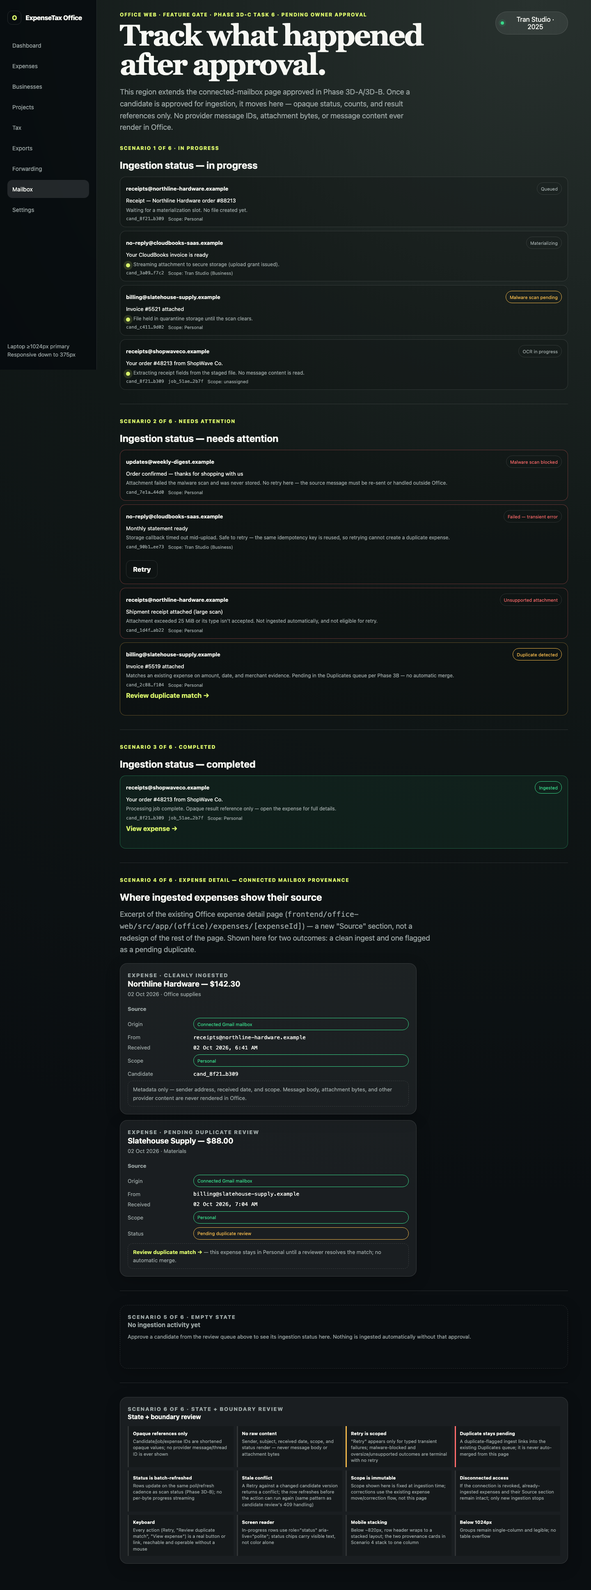
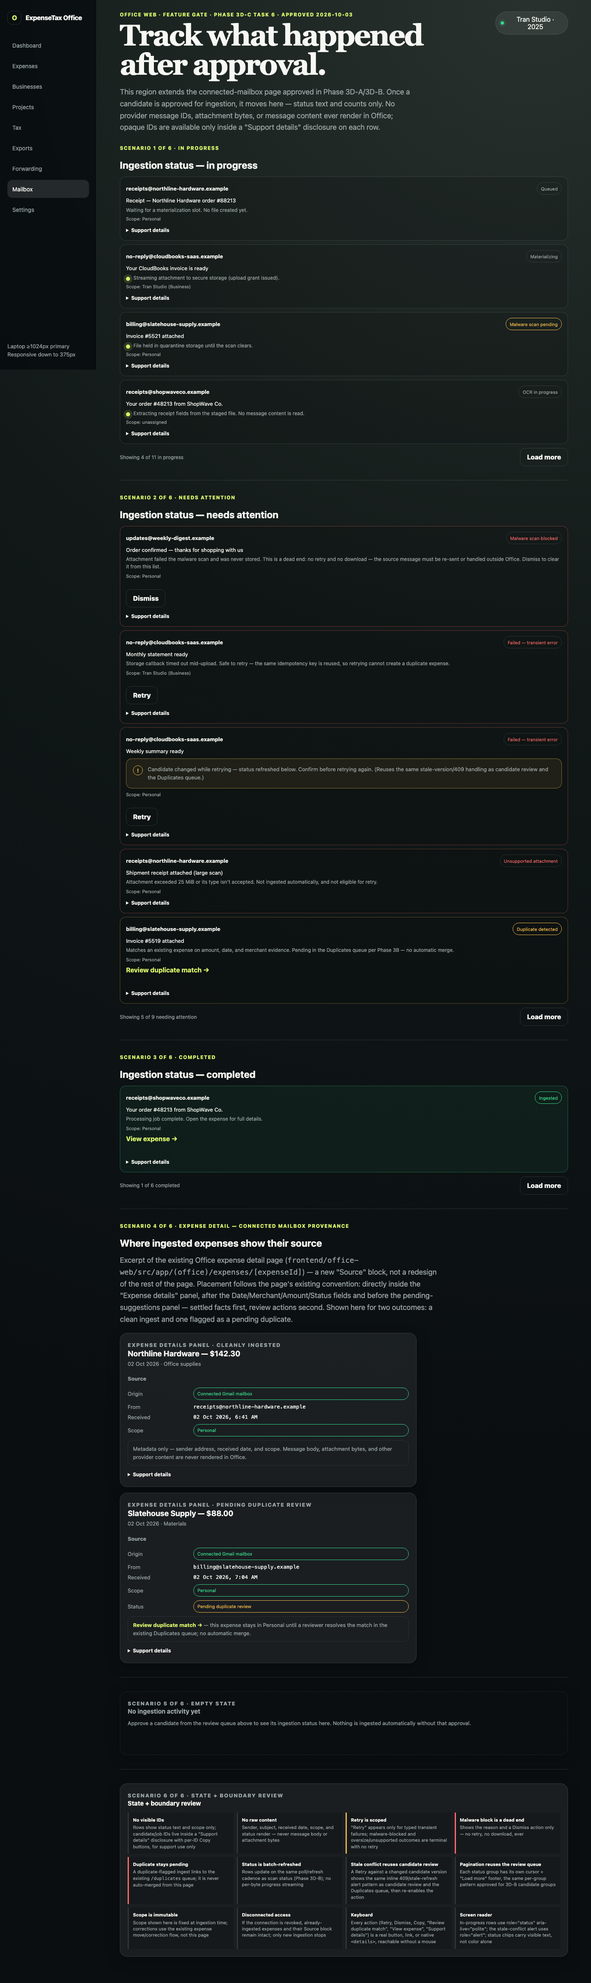
docs(mockups): approve office mailbox ingestion status gate (Phase 3D-C Task 6)
(cherry picked from commit dd946ffecdc4c11451270af4c277eb1730628504)

diff --git a/expense-tax-management/plans/mockups/office-mailbox-ingestion/ingestion.html b/expense-tax-management/plans/mockups/office-mailbox-ingestion/ingestion.html
@@ -3,7 +3,7 @@
 <head>
 <meta charset="utf-8">
 <meta name="viewport" content="width=device-width,initial-scale=1">
-<title>ExpenseTax Office — Mailbox ingestion status (Phase 3D-C feature gate, pending approval)</title>
+<title>ExpenseTax Office — Mailbox ingestion status (Phase 3D-C feature gate, approved)</title>
 <link rel="icon" href="../favicon.svg">
 <link rel="stylesheet" href="../rebaseline/shared/tokens.css">
 <link rel="stylesheet" href="../office-mailbox/mailbox.css">
@@ -31,9 +31,9 @@
   <main id="main">
     <div class="topline">
       <div>
-        <p class="eyebrow">Office Web · feature gate · Phase 3D-C Task 6 · PENDING OWNER APPROVAL</p>
+        <p class="eyebrow">Office Web · feature gate · Phase 3D-C Task 6 · APPROVED 2026-10-03</p>
         <h1>Track what happened after approval.</h1>
-        <p class="lede">This region extends the connected-mailbox page approved in Phase 3D-A/3D-B. Once a candidate is approved for ingestion, it moves here — opaque status, counts, and result references only. No provider message IDs, attachment bytes, or message content ever render in Office.</p>
+        <p class="lede">This region extends the connected-mailbox page approved in Phase 3D-A/3D-B. Once a candidate is approved for ingestion, it moves here — status text and counts only. No provider message IDs, attachment bytes, or message content ever render in Office; opaque IDs are available only inside a "Support details" disclosure on each row.</p>
       </div>
       <button class="profile"><span class="dot"></span> Tran Studio · 2025</button>
     </div>
@@ -47,30 +47,44 @@
           <div class="row-top"><span id="i1-sender" class="sender">receipts@northline-hardware.example</span><span class="chip">Queued</span></div>
           <p class="subject">Receipt — Northline Hardware order #88213</p>
           <div class="status-line"><span>Waiting for a materialization slot. No file created yet.</span></div>
-          <div class="ref-line"><span class="value">cand_8f21…b309</span><span>Scope: Personal</span></div>
+          <div class="ref-line"><span>Scope: Personal</span></div>
+          <details class="support-details"><summary>Support details</summary>
+            <div class="id-row"><span class="value">Candidate ID: cand_8f21…b309</span><button class="button secondary" type="button" aria-label="Copy candidate ID">Copy</button></div>
+          </details>
         </article>
 
         <article class="ingestion-row" aria-labelledby="i2-sender" role="status" aria-live="polite">
           <div class="row-top"><span id="i2-sender" class="sender">no-reply@cloudbooks-saas.example</span><span class="chip">Materializing</span></div>
           <p class="subject">Your CloudBooks invoice is ready</p>
           <div class="status-line"><span class="spinner-dot" aria-hidden="true"></span><span>Streaming attachment to secure storage (upload grant issued).</span></div>
-          <div class="ref-line"><span class="value">cand_3a09…f7c2</span><span>Scope: Tran Studio (Business)</span></div>
+          <div class="ref-line"><span>Scope: Tran Studio (Business)</span></div>
+          <details class="support-details"><summary>Support details</summary>
+            <div class="id-row"><span class="value">Candidate ID: cand_3a09…f7c2</span><button class="button secondary" type="button" aria-label="Copy candidate ID">Copy</button></div>
+          </details>
         </article>
 
         <article class="ingestion-row" aria-labelledby="i3-sender" role="status" aria-live="polite">
           <div class="row-top"><span id="i3-sender" class="sender">billing@slatehouse-supply.example</span><span class="chip warn">Malware scan pending</span></div>
           <p class="subject">Invoice #5521 attached</p>
           <div class="status-line"><span class="spinner-dot" aria-hidden="true"></span><span>File held in quarantine storage until the scan clears.</span></div>
-          <div class="ref-line"><span class="value">cand_c411…9d02</span><span>Scope: Personal</span></div>
+          <div class="ref-line"><span>Scope: Personal</span></div>
+          <details class="support-details"><summary>Support details</summary>
+            <div class="id-row"><span class="value">Candidate ID: cand_c411…9d02</span><button class="button secondary" type="button" aria-label="Copy candidate ID">Copy</button></div>
+          </details>
         </article>
 
         <article class="ingestion-row" aria-labelledby="i4-sender" role="status" aria-live="polite">
           <div class="row-top"><span id="i4-sender" class="sender">receipts@shopwaveco.example</span><span class="chip">OCR in progress</span></div>
           <p class="subject">Your order #48213 from ShopWave Co.</p>
           <div class="status-line"><span class="spinner-dot" aria-hidden="true"></span><span>Extracting receipt fields from the staged file. No message content is read.</span></div>
-          <div class="ref-line"><span class="value">cand_8f21…b309</span><span class="value">job_51ae…2b7f</span><span>Scope: unassigned</span></div>
+          <div class="ref-line"><span>Scope: unassigned</span></div>
+          <details class="support-details"><summary>Support details</summary>
+            <div class="id-row"><span class="value">Candidate ID: cand_8f21…b309</span><button class="button secondary" type="button" aria-label="Copy candidate ID">Copy</button></div>
+            <div class="id-row"><span class="value">Job ID: job_51ae…2b7f</span><button class="button secondary" type="button" aria-label="Copy job ID">Copy</button></div>
+          </details>
         </article>
 
+        <div class="group-footer"><span class="lede" style="margin:0;font-size:12px">Showing 4 of 11 in progress</span><button class="button secondary" type="button">Load more</button></div>
       </div>
     </section>
 
@@ -84,33 +98,61 @@
         <article class="ingestion-row terminal-bad" aria-labelledby="i5-sender">
           <div class="row-top"><span id="i5-sender" class="sender">updates@weekly-digest.example</span><span class="chip bad">Malware scan blocked</span></div>
           <p class="subject">Order confirmed — thanks for shopping with us</p>
-          <p class="note">Attachment failed the malware scan and was never stored. No retry here — the source message must be re-sent or handled outside Office.</p>
-          <div class="ref-line"><span class="value">cand_7e1a…44d0</span><span>Scope: Personal</span></div>
+          <p class="note">Attachment failed the malware scan and was never stored. This is a dead end: no retry and no download — the source message must be re-sent or handled outside Office. Dismiss to clear it from this list.</p>
+          <div class="ref-line"><span>Scope: Personal</span></div>
+          <div class="action-row"><button class="button secondary" type="button">Dismiss</button></div>
+          <details class="support-details"><summary>Support details</summary>
+            <div class="id-row"><span class="value">Candidate ID: cand_7e1a…44d0</span><button class="button secondary" type="button" aria-label="Copy candidate ID">Copy</button></div>
+          </details>
         </article>
 
         <article class="ingestion-row terminal-bad" aria-labelledby="i6-sender">
           <div class="row-top"><span id="i6-sender" class="sender">no-reply@cloudbooks-saas.example</span><span class="chip bad">Failed — transient error</span></div>
           <p class="subject">Monthly statement ready</p>
           <p class="note">Storage callback timed out mid-upload. Safe to retry — the same idempotency key is reused, so retrying cannot create a duplicate expense.</p>
-          <div class="ref-line"><span class="value">cand_90b1…ee73</span><span>Scope: Tran Studio (Business)</span></div>
+          <div class="ref-line"><span>Scope: Tran Studio (Business)</span></div>
           <div class="action-row"><button class="button secondary" type="button">Retry</button></div>
+          <details class="support-details"><summary>Support details</summary>
+            <div class="id-row"><span class="value">Candidate ID: cand_90b1…ee73</span><button class="button secondary" type="button" aria-label="Copy candidate ID">Copy</button></div>
+          </details>
+        </article>
+
+        <article class="ingestion-row terminal-bad" aria-labelledby="i6b-sender">
+          <div class="row-top"><span id="i6b-sender" class="sender">no-reply@cloudbooks-saas.example</span><span class="chip bad">Failed — transient error</span></div>
+          <p class="subject">Weekly summary ready</p>
+          <div class="banner warn" role="alert" style="margin:10px 0 0">
+            <span class="icon" aria-hidden="true">!</span>
+            <div><p style="margin:0">Candidate changed while retrying — status refreshed below. Confirm before retrying again. (Reuses the same stale-version/409 handling as candidate review and the Duplicates queue.)</p></div>
+          </div>
+          <div class="ref-line" style="margin-top:8px"><span>Scope: Personal</span></div>
+          <div class="action-row"><button class="button secondary" type="button">Retry</button></div>
+          <details class="support-details"><summary>Support details</summary>
+            <div class="id-row"><span class="value">Candidate ID: cand_6f02…a815</span><button class="button secondary" type="button" aria-label="Copy candidate ID">Copy</button></div>
+          </details>
         </article>
 
         <article class="ingestion-row terminal-bad" aria-labelledby="i7-sender">
           <div class="row-top"><span id="i7-sender" class="sender">receipts@northline-hardware.example</span><span class="chip bad">Unsupported attachment</span></div>
           <p class="subject">Shipment receipt attached (large scan)</p>
           <p class="note">Attachment exceeded 25 MiB or its type isn't accepted. Not ingested automatically, and not eligible for retry.</p>
-          <div class="ref-line"><span class="value">cand_1d4f…ab22</span><span>Scope: Personal</span></div>
+          <div class="ref-line"><span>Scope: Personal</span></div>
+          <details class="support-details"><summary>Support details</summary>
+            <div class="id-row"><span class="value">Candidate ID: cand_1d4f…ab22</span><button class="button secondary" type="button" aria-label="Copy candidate ID">Copy</button></div>
+          </details>
         </article>
 
         <article class="ingestion-row terminal-warn" aria-labelledby="i8-sender">
           <div class="row-top"><span id="i8-sender" class="sender">billing@slatehouse-supply.example</span><span class="chip warn">Duplicate detected</span></div>
           <p class="subject">Invoice #5519 attached</p>
           <p class="note">Matches an existing expense on amount, date, and merchant evidence. Pending in the Duplicates queue per Phase 3B — no automatic merge.</p>
-          <div class="ref-line"><span class="value">cand_2c88…f104</span><span>Scope: Personal</span></div>
-          <div class="action-row"><a class="link-action" href="#">Review duplicate match →</a></div>
+          <div class="ref-line"><span>Scope: Personal</span></div>
+          <div class="action-row"><a class="link-action" href="/duplicates">Review duplicate match →</a></div>
+          <details class="support-details"><summary>Support details</summary>
+            <div class="id-row"><span class="value">Candidate ID: cand_2c88…f104</span><button class="button secondary" type="button" aria-label="Copy candidate ID">Copy</button></div>
+          </details>
         </article>
 
+        <div class="group-footer"><span class="lede" style="margin:0;font-size:12px">Showing 5 of 9 needing attention</span><button class="button secondary" type="button">Load more</button></div>
       </div>
     </section>
 
@@ -124,11 +166,16 @@
         <article class="ingestion-row terminal-ok" aria-labelledby="i9-sender">
           <div class="row-top"><span id="i9-sender" class="sender">receipts@shopwaveco.example</span><span class="chip ok">Ingested</span></div>
           <p class="subject">Your order #48213 from ShopWave Co.</p>
-          <p class="note">Processing job complete. Opaque result reference only — open the expense for full details.</p>
-          <div class="ref-line"><span class="value">cand_8f21…b309</span><span class="value">job_51ae…2b7f</span><span>Scope: Personal</span></div>
+          <p class="note">Processing job complete. Open the expense for full details.</p>
+          <div class="ref-line"><span>Scope: Personal</span></div>
           <div class="action-row"><a class="link-action" href="#">View expense →</a></div>
+          <details class="support-details"><summary>Support details</summary>
+            <div class="id-row"><span class="value">Candidate ID: cand_8f21…b309</span><button class="button secondary" type="button" aria-label="Copy candidate ID">Copy</button></div>
+            <div class="id-row"><span class="value">Job ID: job_51ae…2b7f</span><button class="button secondary" type="button" aria-label="Copy job ID">Copy</button></div>
+          </details>
         </article>
 
+        <div class="group-footer"><span class="lede" style="margin:0;font-size:12px">Showing 1 of 6 completed</span><button class="button secondary" type="button">Load more</button></div>
       </div>
     </section>
 
@@ -137,10 +184,10 @@
     <section aria-labelledby="s4-heading">
       <p class="eyebrow scenario-label">Scenario 4 of 6 · Expense detail — connected mailbox provenance</p>
       <h2 id="s4-heading" style="margin-bottom:14px">Where ingested expenses show their source</h2>
-      <p class="lede" style="margin:0 0 18px;max-width:760px">Excerpt of the existing Office expense detail page (<code>frontend/office-web/src/app/(office)/expenses/[expenseId]</code>) — a new "Source" section, not a redesign of the rest of the page. Shown here for two outcomes: a clean ingest and one flagged as a pending duplicate.</p>
+      <p class="lede" style="margin:0 0 18px;max-width:780px">Excerpt of the existing Office expense detail page (<code>frontend/office-web/src/app/(office)/expenses/[expenseId]</code>) — a new "Source" block, not a redesign of the rest of the page. Placement follows the page's existing convention: directly inside the "Expense details" panel, after the Date/Merchant/Amount/Status fields and before the pending-suggestions panel — settled facts first, review actions second. Shown here for two outcomes: a clean ingest and one flagged as a pending duplicate.</p>
       <div class="grid">
         <article class="card wide provenance-card">
-          <p class="eyebrow scenario-label">Expense · cleanly ingested</p>
+          <p class="eyebrow scenario-label">Expense details panel · cleanly ingested</p>
           <h3 style="margin:0 0 4px">Northline Hardware — $142.30</h3>
           <p style="margin:0;color:var(--muted);font-size:13px">02 Oct 2026 · Office supplies</p>
           <h4 style="margin:18px 0 4px;font-size:13px;color:var(--muted)">Source</h4>
@@ -148,11 +195,13 @@
           <div class="field-row"><label>From</label><span class="value">receipts@northline-hardware.example</span></div>
           <div class="field-row"><label>Received</label><span class="value">02 Oct 2026, 6:41 AM</span></div>
           <div class="field-row"><label>Scope</label><span class="chip ok">Personal</span></div>
-          <div class="field-row"><label>Candidate</label><span class="value">cand_8f21…b309</span></div>
           <p class="provenance-note">Metadata only — sender address, received date, and scope. Message body, attachment bytes, and other provider content are never rendered in Office.</p>
+          <details class="support-details"><summary>Support details</summary>
+            <div class="id-row"><span class="value">Candidate ID: cand_8f21…b309</span><button class="button secondary" type="button" aria-label="Copy candidate ID">Copy</button></div>
+          </details>
         </article>
         <article class="card wide provenance-card">
-          <p class="eyebrow scenario-label">Expense · pending duplicate review</p>
+          <p class="eyebrow scenario-label">Expense details panel · pending duplicate review</p>
           <h3 style="margin:0 0 4px">Slatehouse Supply — $88.00</h3>
           <p style="margin:0;color:var(--muted);font-size:13px">02 Oct 2026 · Materials</p>
           <h4 style="margin:18px 0 4px;font-size:13px;color:var(--muted)">Source</h4>
@@ -161,7 +210,10 @@
           <div class="field-row"><label>Received</label><span class="value">02 Oct 2026, 7:04 AM</span></div>
           <div class="field-row"><label>Scope</label><span class="chip ok">Personal</span></div>
           <div class="field-row"><label>Status</label><span class="chip warn">Pending duplicate review</span></div>
-          <p class="provenance-note"><a class="link-action" href="#">Review duplicate match →</a> — this expense stays in Personal until a reviewer resolves the match; no automatic merge.</p>
+          <p class="provenance-note"><a class="link-action" href="/duplicates">Review duplicate match →</a> — this expense stays in Personal until a reviewer resolves the match in the existing Duplicates queue; no automatic merge.</p>
+          <details class="support-details"><summary>Support details</summary>
+            <div class="id-row"><span class="value">Candidate ID: cand_2c88…f104</span><button class="button secondary" type="button" aria-label="Copy candidate ID">Copy</button></div>
+          </details>
         </article>
       </div>
     </section>
@@ -183,18 +235,18 @@
         <p class="eyebrow scenario-label">Scenario 6 of 6 · State + boundary review</p>
         <h2>State + boundary review</h2>
         <div class="state-grid">
-          <div class="state"><strong>Opaque references only</strong>Candidate/job/expense IDs are shortened opaque values; no provider message/thread ID is ever shown</div>
+          <div class="state"><strong>No visible IDs</strong>Rows show status text and scope only; candidate/job IDs live inside a "Support details" disclosure with per-ID Copy buttons, for support use only</div>
           <div class="state"><strong>No raw content</strong>Sender, subject, received date, scope, and status render — never message body or attachment bytes</div>
           <div class="state" style="--state:var(--warning)"><strong>Retry is scoped</strong>"Retry" appears only for typed transient failures; malware-blocked and oversize/unsupported outcomes are terminal with no retry</div>
-          <div class="state" style="--state:var(--danger)"><strong>Duplicate stays pending</strong>A duplicate-flagged ingest links into the existing Duplicates queue; it is never auto-merged from this page</div>
+          <div class="state" style="--state:var(--danger)"><strong>Malware block is a dead end</strong>Shows the reason and a Dismiss action only — no retry, no download, ever</div>
+          <div class="state" style="--state:var(--danger)"><strong>Duplicate stays pending</strong>A duplicate-flagged ingest links to the existing <code>/duplicates</code> queue; it is never auto-merged from this page</div>
           <div class="state"><strong>Status is batch-refreshed</strong>Rows update on the same poll/refresh cadence as scan status (Phase 3D-B); no per-byte progress streaming</div>
-          <div class="state"><strong>Stale conflict</strong>A Retry against a changed candidate version returns a conflict; the row refreshes before the action can run again (same pattern as candidate review's 409 handling)</div>
+          <div class="state"><strong>Stale conflict reuses candidate review</strong>A Retry against a changed candidate version shows the same inline 409/stale-refresh alert pattern as candidate review and the Duplicates queue, then re-enables the action</div>
+          <div class="state"><strong>Pagination reuses the review queue</strong>Each status group has its own cursor + "Load more" footer, the same per-group pattern approved for 3D-B candidate groups</div>
           <div class="state"><strong>Scope is immutable</strong>Scope shown here is fixed at ingestion time; corrections use the existing expense move/correction flow, not this page</div>
-          <div class="state"><strong>Disconnected access</strong>If the connection is revoked, already-ingested expenses and their Source section remain intact; only new ingestion stops</div>
-          <div class="state"><strong>Keyboard</strong>Every action (Retry, "Review duplicate match", "View expense") is a real button or link, reachable and operable without a mouse</div>
-          <div class="state"><strong>Screen reader</strong>In-progress rows use role="status" aria-live="polite"; status chips carry visible text, not color alone</div>
-          <div class="state"><strong>Mobile stacking</strong>Below ~820px, row header wraps to a stacked layout; the two provenance cards in Scenario 4 stack to one column</div>
-          <div class="state"><strong>Below 1024px</strong>Groups remain single-column and legible; no table overflow</div>
+          <div class="state"><strong>Disconnected access</strong>If the connection is revoked, already-ingested expenses and their Source block remain intact; only new ingestion stops</div>
+          <div class="state"><strong>Keyboard</strong>Every action (Retry, Dismiss, Copy, "Review duplicate match", "View expense", "Support details") is a real button, link, or native <code>&lt;details&gt;</code>, reachable without a mouse</div>
+          <div class="state"><strong>Screen reader</strong>In-progress rows use role="status" aria-live="polite"; the stale-conflict alert uses role="alert"; status chips carry visible text, not color alone</div>
         </div>
       </article>
     </section>

diff --git a/expense-tax-management/plans/mockups/office-mailbox-ingestion/ingestion.css b/expense-tax-management/plans/mockups/office-mailbox-ingestion/ingestion.css
@@ -20,6 +20,16 @@
 .provenance-card .field-row:first-of-type { margin-top: 14px; }
 .provenance-note { margin: 14px 0 0; padding: 10px 12px; border: 1px dashed var(--line); border-radius: 12px; color: var(--muted); font-size: 12px; line-height: 1.5; }
 
+.support-details { margin-top: 10px; font-size: 12px; color: var(--muted); }
+.support-details summary { cursor: pointer; color: var(--ink); font-weight: 700; padding: 4px 0; }
+.support-details summary:focus-visible { outline: 3px solid var(--focus); outline-offset: 3px; }
+.id-row { display: flex; align-items: center; justify-content: space-between; gap: 10px; margin-top: 8px; padding: 8px 10px; border: 1px solid var(--line); border-radius: 10px; background: rgba(0, 0, 0, .14); }
+.id-row .button { margin: 0; min-height: 30px; padding: 0 10px; font-size: 11px; }
+
+.group-footer { display: flex; align-items: center; justify-content: space-between; gap: 12px; margin-top: 10px; flex-wrap: wrap; }
+.group-footer .button { margin: 0; }
+
 @media (max-width: 820px) {
   .ingestion-row .row-top { align-items: flex-start; flex-direction: column; }
+  .id-row { flex-direction: column; align-items: flex-start; }
 }

diff --git a/expense-tax-management/plans/mockups/office-mailbox-ingestion/NOTES.md b/expense-tax-management/plans/mockups/office-mailbox-ingestion/NOTES.md
@@ -1,4 +1,4 @@
-# office-mailbox-ingestion — NOTES (Phase 3D-C Task 6 feature gate, pending owner approval)
+# office-mailbox-ingestion — NOTES (Phase 3D-C Task 6 feature gate, approved)
 
 Screen: Office Web `/mailbox` — ingestion status region. Extends the approved Phase 3D-A base (`../office-mailbox/`) and Phase 3D-B candidate review (`../office-mailbox-review/`) in place, per the Phase 3D-C plan's ownership model ("A creates mailbox Office page/API base; B modifies it for scan/review; C modifies it only for ingestion status"). This mockup covers only the Task 6 ingestion-status addition, plus the new "Source" section on the existing Office expense detail page where connected-mailbox provenance is shown. It does not re-render the already-approved connect/OAuth/scan/candidate-review scenarios from `../office-mailbox/mailbox.html` or `../office-mailbox-review/review.html`.
 
@@ -8,12 +8,12 @@ Source: local `ingestion.html` (standalone, no build step) + `ingestion.css` (fe
 
 ## Scenario coverage (per task requirement)
 
-1. **In progress** — `queued`, `materializing`, `malware-scan pending`, `OCR in progress`. In-progress rows use `role="status" aria-live="polite"` consistent with the 3D-B scan-running pattern; only status/counts refresh, not byte-level progress (per the design spec's "per-message failures do not roll back" / batch-refresh behavior already decided in 3D-B).
-2. **Needs attention** — `malware-scan blocked` (terminal, no retry — security-sensitive, source message must be re-sent), `failed` with a transient-error note and a `Retry` button (spec: "`retry`: allowed for typed transient failure only"), `unsupported/oversize attachment` (terminal, no retry — exceeds the 25 MiB / 5-attachment cap), and `duplicate detected` (links into the existing Duplicates queue; "no automatic merge" per Phase 3B).
-3. **Completed** — `ingested`, with a `View expense →` link to the created expense and the opaque `candidateId`/`jobId` references shown (never a provider message ID).
-4. **Expense detail — connected mailbox provenance** — a new "Source" section mocked as an excerpt of the existing Office expense detail page (`frontend/office-web/src/app/(office)/expenses/[expenseId]/page.tsx`), not a redesign of that page. Shows origin, sender, received date, and scope for two outcomes: a clean ingest and one still pending duplicate review (with a link into the Duplicates queue). An explicit note states message body/attachment bytes are never rendered.
+1. **In progress** — `queued`, `materializing`, `malware-scan pending`, `OCR in progress`. In-progress rows use `role="status" aria-live="polite"` consistent with the 3D-B scan-running pattern; only status/counts refresh, not byte-level progress (per the design spec's "per-message failures do not roll back" / batch-refresh behavior already decided in 3D-B). Each group ends with a cursor-style "Load more" footer (see Owner decisions #2 below).
+2. **Needs attention** — `malware-scan blocked` (dead end: reason shown, a `Dismiss` action only, no retry and no download), `failed` with a transient-error note and a `Retry` button (spec: "`retry`: allowed for typed transient failure only"), a second `failed` row showing the inline stale-candidate/409 conflict alert that `Retry` can surface, `unsupported/oversize attachment` (terminal, no retry — exceeds the 25 MiB / 5-attachment cap), and `duplicate detected` (links to the existing `/duplicates` queue; "no automatic merge" per Phase 3B).
+3. **Completed** — `ingested`, with a `View expense →` link to the created expense. No opaque ID is visible on the row by default (see Owner decisions #3).
+4. **Expense detail — connected mailbox provenance** — a new "Source" block mocked as an excerpt of the existing Office expense detail page (`frontend/office-web/src/app/(office)/expenses/[expenseId]/page.tsx`), not a redesign of that page. Shows origin, sender, received date, and scope for two outcomes: a clean ingest and one still pending duplicate review (with a link into the `/duplicates` queue). An explicit note states message body/attachment bytes are never rendered.
 5. **Empty state** — no ingestion activity yet, `role="status"`, matching the empty-state pattern from `../office-mailbox-review/review.html`.
-6. **State + boundary review** — opaque-references-only, no-raw-content, retry-is-scoped, duplicate-stays-pending, batch-refresh, stale-conflict, scope-immutable, disconnected-access, keyboard, screen reader, and mobile-stacking notes.
+6. **State + boundary review** — no-visible-IDs, no-raw-content, retry-is-scoped, malware-block-is-a-dead-end, duplicate-stays-pending, batch-refresh, stale-conflict-reuses-candidate-review, pagination-reuses-the-review-queue, scope-immutable, disconnected-access, keyboard, and screen reader notes.
 
 No real email addresses, message bodies, or personal data: synthetic senders/subjects reused from the approved 3D-B gate (`shopwaveco.example`, `northline-hardware.example`, `cloudbooks-saas.example`) plus one new synthetic sender (`slatehouse-supply.example`) for the malware-scan and duplicate scenarios, matching the design spec's stored-fields list (sender address, bounded subject, scope, opaque IDs — no raw MIME/HTML/body).
 
@@ -21,13 +21,22 @@ No real email addresses, message bodies, or personal data: synthetic senders/sub
 
 - In-progress rows (`materializing`, `malware-scan pending`, `OCR in progress`) use `role="status" aria-live="polite"`, matching the 3D-B scan-running convention.
 - Status is communicated by chip text, not color alone (e.g. "Malware scan blocked", "Duplicate detected" are always spelled out).
-- "Retry" and "Review duplicate match" / "View expense" are real `<button>`/`<a>` elements, ≥44px touch target per shared tokens; `Retry` is the only action gated to a specific terminal state (transient failure).
+- "Retry", "Dismiss", "Review duplicate match" / "View expense" are real `<button>`/`<a>` elements, ≥44px touch target per shared tokens; `Retry` is the only action gated to a specific terminal state (transient failure); `Dismiss` is the only action on a malware-blocked row.
+- The stale-candidate/409 conflict alert on Retry uses `role="alert"`, matching the `.banner.warn` pattern already approved in `../office-mailbox/mailbox.css`.
+- Candidate/job IDs sit inside a native `<details>`/`<summary>` "Support details" disclosure per row, not in the default row view; each ID has its own `Copy` button with a descriptive `aria-label` (e.g. "Copy candidate ID").
 - The empty state and placeholder regions use `role="status"`, matching prior gates.
 - Expense-detail provenance fields use the existing `.field-row` label/value pattern already approved in `../office-mailbox/mailbox.css`.
 
-## Open questions for owner approval
+## Owner decisions (approved 2026-10-03)
 
-See `REVIEW.md` "Open questions" — this gate is **pending owner approval** and not yet signed off.
+1. **Malware-scan blocked is a dead end.** Shows the reason and a `Dismiss` action only — no retry and no download, ever. The source message must be re-sent or handled outside Office.
+2. **Pagination reuses the review-queue cursor pattern.** Each status group ("In progress", "Needs attention", "Completed") gets its own cursor + "Load more" footer with a "Showing N of M" status line, the same per-group pattern already approved for 3D-B candidate classification groups (`../office-mailbox-review/NOTES.md` decision 6) and used by the Duplicates queue (`frontend/office-web/src/app/(office)/duplicates/page.tsx`).
+3. **No shortened opaque IDs on rows.** Rows show status text and scope only. Candidate/job IDs are available solely inside a per-row "Support details" `<details>` disclosure, with a `Copy` button per ID, for support use. This also applies to the expense-detail "Source" block (Scenario 4): the candidate ID is likewise moved into its own "Support details" disclosure rather than a visible field.
+4. **Duplicate-detected links to the existing `/duplicates` review queue** (not a mailbox-specific duplicate view) — both from the ingestion row and from the expense-detail "pending duplicate review" Source block.
+5. **Retry's 409/stale-candidate conflict reuses the candidate-review pattern inline.** Demonstrated as a second "Failed — transient error" row (Scenario 2) whose `Retry` surfaced a stale-version conflict: an inline `role="alert"` banner ("Candidate changed while retrying — status refreshed below. Confirm before retrying again.") appears directly on the row, mirroring the stale-refresh handling already used by candidate review and the Duplicates queue's resolve actions — the row's own data refreshes and `Retry` re-enables, rather than navigating away or showing a full-page error.
+6. **Expense-detail "Source" block placement follows the existing page's convention.** It sits inside the current "Expense details" panel, directly after the Date/Merchant/Amount/Status fields and tags, and before the pending-suggestions panel — matching the real page's existing order of settled facts before review actions (`frontend/office-web/src/app/(office)/expenses/[expenseId]/page.tsx`: `Panel title="Expense details"` → suggestions `Panel` below it).
+
+**Verdict: Approved by Toby Tran on 2026-10-03**, as drafted, with the six decisions above. See `REVIEW.md`.
 
 ## Sources
 

diff --git a/expense-tax-management/plans/mockups/office-mailbox-ingestion/REVIEW.md b/expense-tax-management/plans/mockups/office-mailbox-ingestion/REVIEW.md
@@ -2,37 +2,40 @@
 
 - Prepared: 2026-10-03
 - Scope: `ingestion.html`, `ingestion.css`, `ingestion-mobile-375.png`, `ingestion-tablet-768.png`, `ingestion-desktop-1440.png`, `NOTES.md`
-- **Status: Pending owner approval**
-- Verdict: **Not yet reviewed.** Drafted for Toby Tran to approve or redirect before any Task 6 UI implementation starts.
+- **Status: Approved**
+- Verdict: **Approved by Toby Tran on 2026-10-03**, as drafted, with the decisions below.
 
 ## What this covers
 
-Office Web `/mailbox` ingestion-status region, extending the approved Phase 3D-A base (`../office-mailbox/`) and Phase 3D-B candidate review (`../office-mailbox-review/`) per the Phase 3D-C plan Task 6: per-candidate ingestion status after "Approve for ingestion" (queued, materializing, malware-scan pending, malware-scan blocked, OCR in progress, ingested with a link to the created expense, duplicate detected with a link to the existing Duplicates queue, failed with a scoped retry, unsupported/oversize attachment), plus a new "Source" section on the existing Office expense detail page showing connected-mailbox provenance (sender, received date, scope) — metadata only, never message bodies.
+Office Web `/mailbox` ingestion-status region, extending the approved Phase 3D-A base (`../office-mailbox/`) and Phase 3D-B candidate review (`../office-mailbox-review/`) per the Phase 3D-C plan Task 6: per-candidate ingestion status after "Approve for ingestion" (queued, materializing, malware-scan pending, malware-scan blocked, OCR in progress, ingested with a link to the created expense, duplicate detected with a link to the existing Duplicates queue, failed with a scoped retry, unsupported/oversize attachment), plus a new "Source" block on the existing Office expense detail page showing connected-mailbox provenance (sender, received date, scope) — metadata only, never message bodies.
 
 ## Design/mockup only
 
 No application code was written or modified. This folder contains static HTML/CSS and PNG renders only, per `../README.md`'s conventions. `frontend/office-web` (expense detail and duplicates pages) was read for interaction-pattern and structural reference, not edited.
 
-## Open questions
+## Owner decisions (2026-10-03)
 
-1. **Malware-scan-blocked — any user-facing next step?** The mockup shows this as a dead end ("source message must be re-sent or handled outside Office," no Retry). Is silence correct per the design's no-rollback model, or should Office offer a "Contact support" / "Mark reviewed" action?
-2. **Duplicate-detected link target.** The mockup links "Review duplicate match" to the existing `/duplicates` queue (reusing its page, not a mailbox-specific view). Confirm that's the intended destination rather than a new mailbox-scoped duplicate panel.
-3. **Retry conflict handling.** The mockup notes Retry should follow the same stale-candidate-version/409 pattern as candidate review (Scenario 6), but doesn't render the conflict state inline. Confirm that reuse is correct, or whether Retry needs its own visible conflict/refresh UI.
-4. **Row retention/pagination.** How long do completed/failed ingestion rows stay visible on `/mailbox`, and do they need the same cursor + "Load more" pattern as the Duplicates queue and 3D-B candidate groups, or a time-bounded view (e.g., "last 7 days")?
-5. **Expense-detail "Source" section placement.** Mocked as a new section below the existing expense header fields. Confirm placement (top vs. secondary section) against the real page's current layout before implementation.
-6. **Opaque ID display.** The mockup shows shortened IDs (e.g. `cand_8f21…b309`, `job_51ae…2b7f`) to owners/reviewers. Confirm these are acceptable in production copy, or whether Office should show zero internal IDs and rely on status text alone.
+1. **Malware-scan blocked is a dead end.** Shows the reason and a `Dismiss` action only — no retry, no download.
+2. **Duplicate-detected links to the existing `/duplicates` review queue**, not a mailbox-specific view.
+3. **No shortened opaque IDs on rows.** Status text only; candidate/job IDs sit inside a per-row "Support details" disclosure with Copy buttons, for support use.
+4. **Retry's 409/stale-candidate conflict reuses the candidate-review pattern inline** — an inline `role="alert"` banner on the affected row, same stale-refresh handling as candidate review and the Duplicates queue.
+5. **Retention/pagination reuses the review-queue cursor pattern** — each status group gets its own cursor + "Load more" footer, the same per-group pattern approved for 3D-B candidate classification groups.
+6. **Expense-detail "Source" block placement follows the existing page's convention** — inside the current "Expense details" panel, after Date/Merchant/Amount/Status and tags, before the pending-suggestions panel.
 
-## Sign-off checklist (to confirm on approval)
+Full rationale and sourcing for all six decisions is in `NOTES.md` → "Owner decisions (approved 2026-10-03)".
 
-- [ ] Covers all nine states: queued, materializing, malware-scan pending, malware-scan blocked, OCR in progress, ingested (expense link), duplicate detected (duplicate-queue link), failed (scoped retry), unsupported/oversize attachment.
-- [ ] Expense-detail provenance section covers sender, received date, and connected-mailbox scope; explicitly states metadata-only (no body/attachment content).
-- [ ] Desktop (1440) and mobile (375) renders present; tablet (768) included as a bonus third viewport.
-- [ ] Accessible roles/labels on every interactive control and status region (see `NOTES.md` → Accessibility).
-- [ ] No real email addresses, message bodies, or personal data.
-- [ ] Visual language matches the approved Office shell and the 3D-A/3D-B mailbox gates (`../office-mailbox/mailbox.css`, `../office-mailbox-review/review.css`, `../rebaseline/shared/tokens.css` reused, not duplicated).
-- [ ] All open questions above resolved and recorded.
-- [ ] Human reviewer (Toby Tran) approves scope, states, and link targets.
+## Sign-off checklist
+
+- [x] Covers all nine states: queued, materializing, malware-scan pending, malware-scan blocked (dead end + Dismiss), OCR in progress, ingested (expense link), duplicate detected (`/duplicates` link), failed (scoped retry, including a stale-conflict variant), unsupported/oversize attachment.
+- [x] Expense-detail provenance block covers sender, received date, and connected-mailbox scope; explicitly states metadata-only (no body/attachment content); IDs moved to a support-only disclosure; placed per the existing page's panel order.
+- [x] Desktop (1440) and mobile (375) renders present; tablet (768) included as a bonus third viewport.
+- [x] Accessible roles/labels on every interactive control and status region (see `NOTES.md` → Accessibility).
+- [x] No real email addresses, message bodies, or personal data.
+- [x] Visual language matches the approved Office shell and the 3D-A/3D-B mailbox gates (`../office-mailbox/mailbox.css`, `../office-mailbox-review/review.css`, `../rebaseline/shared/tokens.css` reused, not duplicated).
+- [x] All open questions from the prior draft resolved and recorded as Owner decisions above.
+- [x] Human reviewer (Toby Tran) approved scope, states, and link targets — 2026-10-03.
 
 ## Evidence
 
-- 3 PNG renders via `npx playwright screenshot --full-page` (headless Chromium, Playwright 1.63.0), 2026-10-03.
+- 3 PNG renders regenerated via `npx playwright screenshot --full-page` (headless Chromium, Playwright 1.63.0) after the 2026-10-03 decision changes (IDs moved into "Support details" disclosures; malware-blocked row given a `Dismiss`-only action; duplicate links pointed at `/duplicates`; a stale-conflict `Retry` variant and per-group "Load more" footers added).
+- Manual visual check of all three renders: no visible candidate/job IDs on any row by default; malware-blocked row shows only `Dismiss`; both duplicate links point to `/duplicates`; the conflict alert renders inline on its row at all three viewports; group footers wrap cleanly on mobile.

diff --git a/expense-tax-management/plans/mockups/README.md b/expense-tax-management/plans/mockups/README.md
@@ -48,6 +48,6 @@ Every folder now carries `mobile-375.png`, `tablet-768.png`, `desktop-1440.png`,
 
 - [x] **Office mailbox gate -> Phase 3D-A Task 4**: connect/account/status/schedule/reviewer base for the connected-Gmail mailbox page; 1440/768/375 renders. **Approved by Toby Tran on 2026-10-03** — explicit scope choice required (no preselected radio, Connect disabled until chosen), Mailbox nav stays between Forwarding/Settings, `/mailbox` usable on mobile (no Capture hand-off). Candidate-review placeholder sizing deferred to Phase 3D-B. See `office-mailbox/REVIEW.md` and `office-mailbox/NOTES.md`.
 - [x] **Office mailbox review gate -> Phase 3D-B Task 5**: candidate review queue extending the same `/mailbox` page — scan status/schedule, single-flight manual scan, candidate list grouped by classification, candidate detail with approve/skip/not-a-receipt decisions, empty/error/reauth states, explicit Personal/business scope indication; 1440/768/375 renders. **Approved by Toby Tran on 2026-10-03** — always-ignore-sender deferred as a future enhancement, dismiss split into Skip/Not a receipt, scan-running refresh is batch not streaming, reauth blocks scanning only (staged candidates stay reviewable). See `office-mailbox-review/REVIEW.md` and `office-mailbox-review/NOTES.md`.
-- [ ] **Office mailbox ingestion gate -> Phase 3D-C Task 6**: ingestion status extending the same `/mailbox` page — per-candidate status after "Approve for ingestion" (queued, materializing, malware-scan pending/blocked, OCR in progress, ingested with expense link, duplicate detected with Duplicates-queue link, failed with scoped retry, unsupported/oversize attachment), plus a new "Source" section on the Office expense detail page (sender, received date, connected-mailbox scope — metadata only, never bodies); 1440/768/375 renders. **Status: pending owner approval** — see open questions in `office-mailbox-ingestion/REVIEW.md` and `office-mailbox-ingestion/NOTES.md`.
+- [x] **Office mailbox ingestion gate -> Phase 3D-C Task 6**: ingestion status extending the same `/mailbox` page — per-candidate status after "Approve for ingestion" (queued, materializing, malware-scan pending/blocked, OCR in progress, ingested with expense link, duplicate detected with Duplicates-queue link, failed with scoped retry, unsupported/oversize attachment), plus a new "Source" section on the Office expense detail page (sender, received date, connected-mailbox scope — metadata only, never bodies); 1440/768/375 renders. **Approved by Toby Tran on 2026-10-03** — malware-scan blocked is a dead end (reason + Dismiss only, no retry/download); duplicate-detected links to the existing `/duplicates` queue; no shortened opaque IDs on rows (status text only, IDs in a per-row "Support details" disclosure); Retry's stale-candidate conflict reuses the candidate-review 409 pattern inline; pagination reuses the review-queue cursor + "Load more" pattern per status group; expense-detail "Source" block placed per the existing page's panel order. See `office-mailbox-ingestion/REVIEW.md` and `office-mailbox-ingestion/NOTES.md`.
 
 > Historical note: 30 legacy PNGs passed structural checks on 2026-09-06. That evidence does not approve the new three-application architecture.
